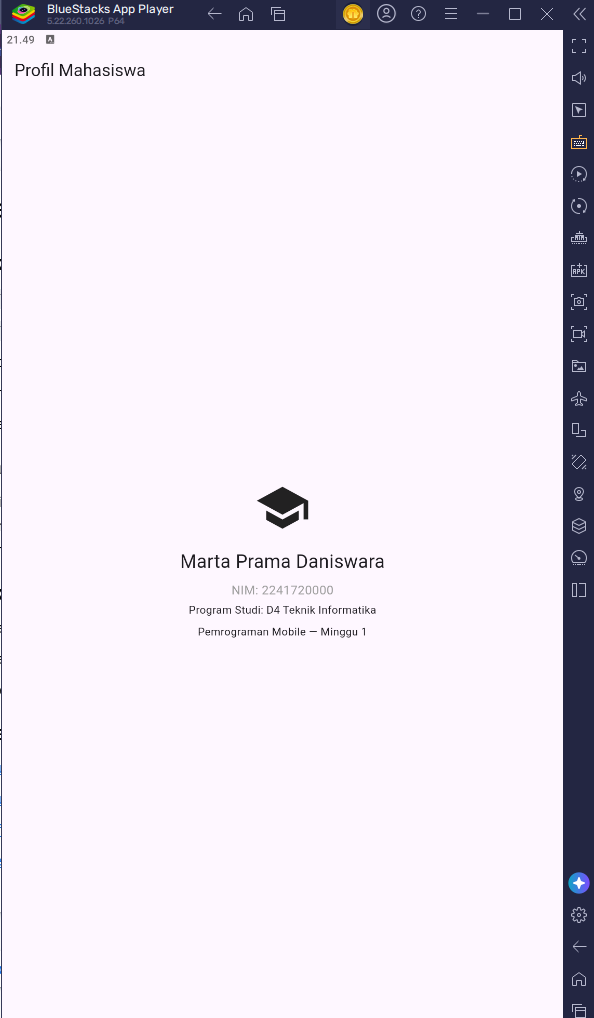
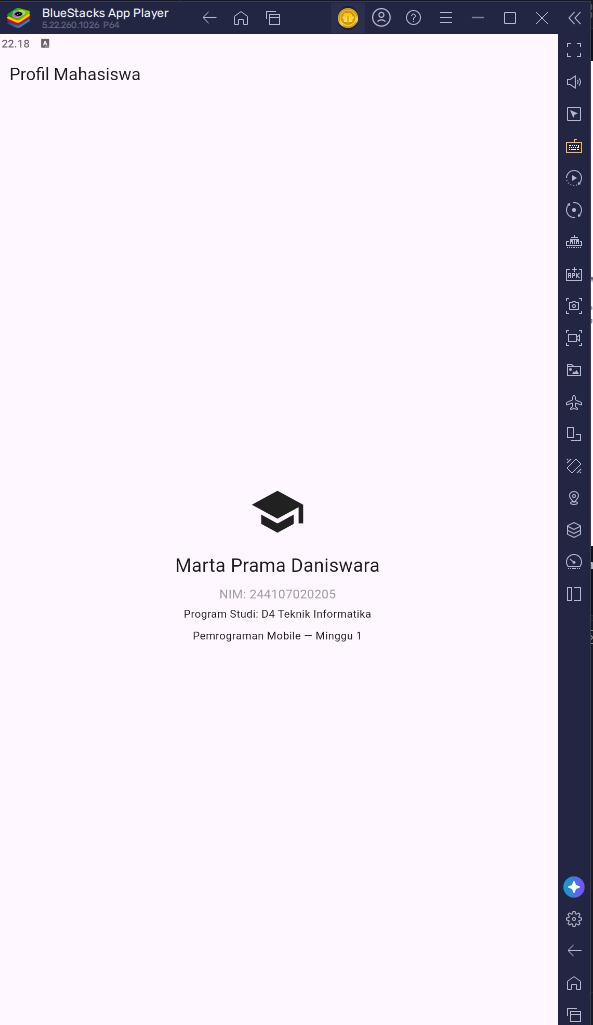
revisi laporan week 1

diff --git a/01-week-1-mobile-development-ecosystem-flutter-refresh/my_first_app/lib/main.dart b/01-week-1-mobile-development-ecosystem-flutter-refresh/my_first_app/lib/main.dart
@@ -18,7 +18,7 @@ class MyApp extends StatelessWidget {
               SizedBox(height: 16),
               Text('Marta Prama Daniswara', style: TextStyle(fontSize: 24)),
               SizedBox(height: 8),
-              Text('NIM: 2241720000', style: TextStyle(fontSize: 16, color: Colors.grey)),
+              Text('NIM: 244107020205', style: TextStyle(fontSize: 16, color: Colors.grey)),
               SizedBox(height: 4),
               Text('Program Studi: D4 Teknik Informatika', style: TextStyle(fontSize: 14)),
               SizedBox(height: 8),
